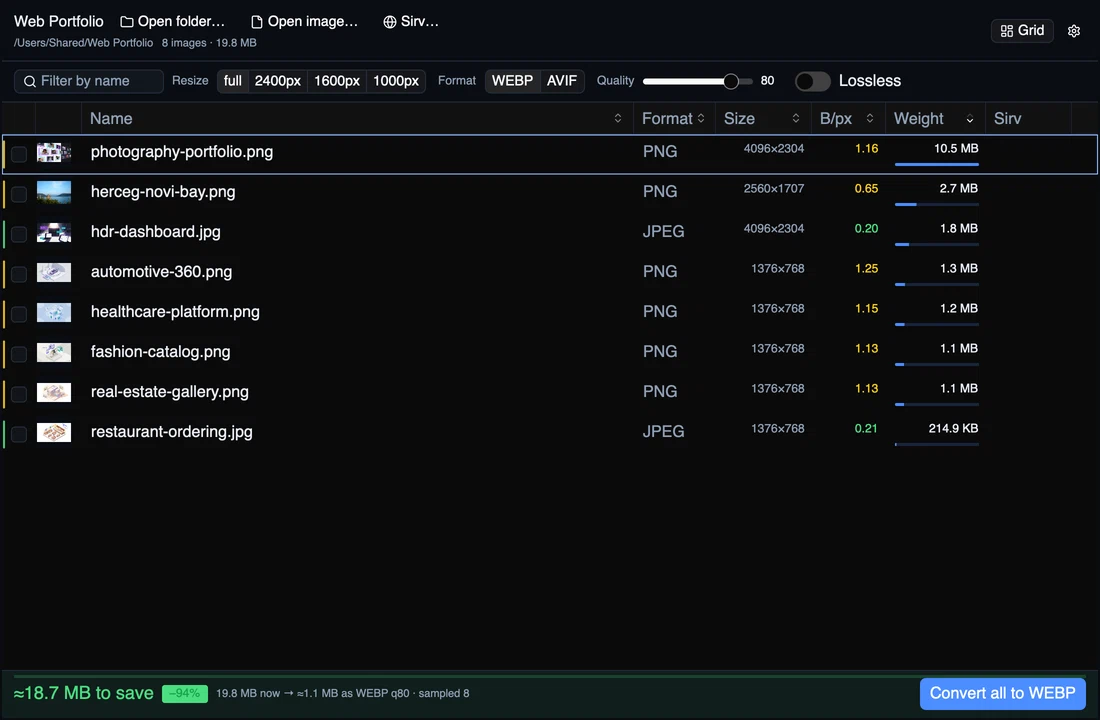
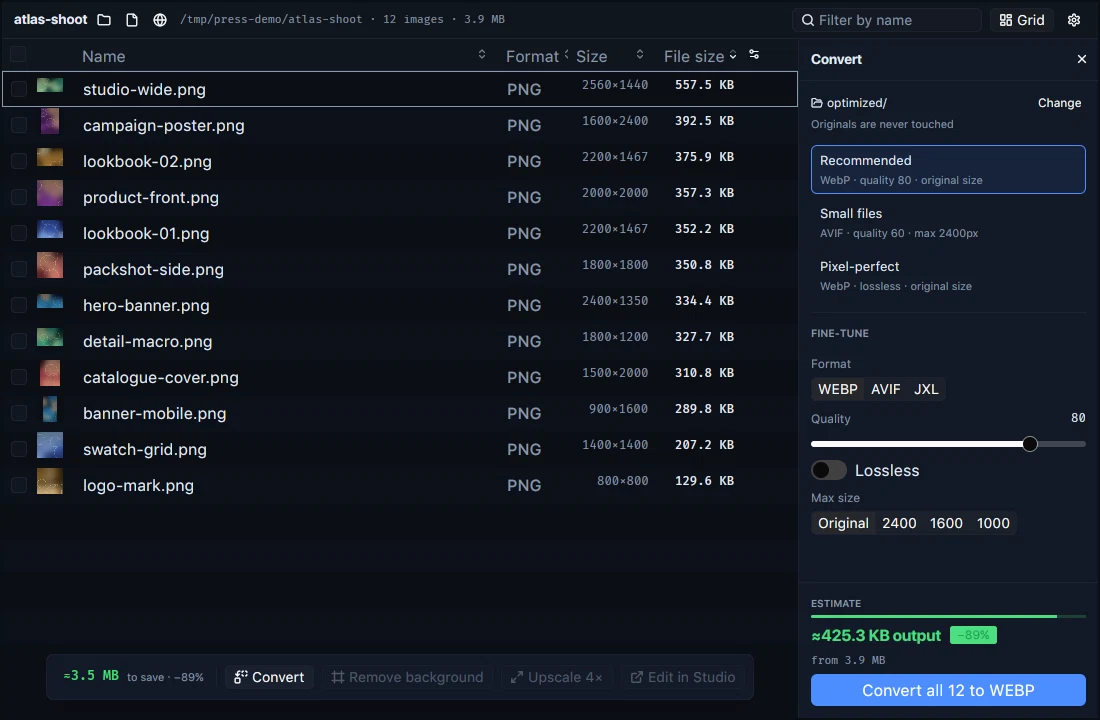
docs: new screenshots, and a heavy finding that means something
`heavy` was being claimed on 44-byte slivers: bytes per pixel is a
ratio, and a ratio on two pixels is arithmetic rather than a finding.
The word is a claim that converting would win something, so it now needs
a file worth converting behind it — over 32 KB and over 64x64 px — and
one function decides it for the count, the filter and the row alike.

The screenshots showed the old two-row chrome, the old inspector column
and a comparison header full of buttons. They are the current window
now, taken from the real app at the default size, and a third one shows
the results view that had nowhere to appear before. Press converted
them: 657.8 KB of PNG to 147.1 KB of WebP.

The README caught up with the window: the columns and their picker, B/px
starting off, the bar and its rails, the destination that can be
changed, and Keep or Discard on a model's result. Scenarios park the
pointer before their last frame, so captures stop carrying the tooltip
of whatever the harness last clicked.

Claude-Session: https://claude.ai/code/session_016NZduPZtBHuRrYY5pWs5zr

diff --git a/src/audit/mod.rs b/src/audit/mod.rs
@@ -62,6 +62,12 @@ use gpui_component::{ActiveTheme, Disableable, IconName, Selectable, Sizable};
 /// diagnostic something you had to read rather than see.
 const DENSITY_GOOD: f32 = 0.5;
 const DENSITY_HEAVY: f32 = 1.5;
+/// Below these, bytes per pixel stops meaning anything. A 44-byte 1×2 sliver
+/// carries an enormous ratio and has nothing to give back: the finding is a
+/// claim that converting would win something, so it needs a file big enough for
+/// that to be true.
+const HEAVY_MIN_BYTES: u64 = 32_768;
+const HEAVY_MIN_PIXELS: u64 = 64 * 64;
 /// Gallery rows stay uniform for virtualisation, but the tile itself grows to use the
 /// available surface instead of leaving a dead strip beside three tiny cards.
 const TILE_MIN: f32 = 168.;
@@ -837,10 +843,16 @@ enum Finding {
 }
 
 impl Finding {
-    fn holds(self, entry: &Entry) -> bool {
+    /// The one place either finding is decided, so the count in the toolbar,
+    /// the filter it applies, and the chip in the row can never disagree.
+    pub(super) fn holds(self, entry: &Entry) -> bool {
         match self {
             Finding::Mislabelled => entry.extension_lies(),
-            Finding::Heavy => entry.bytes_per_pixel() > DENSITY_HEAVY,
+            Finding::Heavy => {
+                entry.bytes >= HEAVY_MIN_BYTES
+                    && u64::from(entry.width) * u64::from(entry.height) >= HEAVY_MIN_PIXELS
+                    && entry.bytes_per_pixel() > DENSITY_HEAVY
+            }
         }
     }
 }

diff --git a/src/audit/tests.rs b/src/audit/tests.rs
@@ -1234,6 +1234,28 @@ fn gallery_exposes_sorting_and_a_separate_compare_action(cx: &mut TestAppContext
     });
 }
 
+/// Bytes per pixel is a ratio, and a ratio on a 44-byte sliver is arithmetic
+/// rather than a finding. The claim is that converting would win something.
+#[test]
+fn heavy_needs_a_file_worth_converting() {
+    // A 300 KB screenshot at 30 bytes per pixel: the finding it was built for.
+    let bloated = entry("screenshot.png", 100, 100, 300_000, ImageFormat::Png);
+    assert!(Finding::Heavy.holds(&bloated));
+
+    // The same ratio on something too small to give anything back.
+    let sliver = entry("sliver.png", 1, 2, 44, ImageFormat::Png);
+    assert!(sliver.bytes_per_pixel() > 1.5);
+    assert!(!Finding::Heavy.holds(&sliver));
+
+    // Big enough on disk, but a handful of pixels: still nothing to win.
+    let tiny = entry("icon.png", 8, 8, 100_000, ImageFormat::Png);
+    assert!(!Finding::Heavy.holds(&tiny));
+
+    // A photograph is never heavy however large the file is.
+    let photo = entry("photo.jpg", 4000, 3000, 2_000_000, ImageFormat::Jpeg);
+    assert!(!Finding::Heavy.holds(&photo));
+}
+
 /// The picker's toggle has to reach the table, not only the state: the delegate
 /// caches its column list against a signature, and a preference left out of that
 /// signature changes nothing on screen.

diff --git a/src/audit/gallery.rs b/src/audit/gallery.rs
@@ -72,8 +72,6 @@ impl Audit {
         let thumb = self.thumbs.get(&index).cloned();
         let ticked = self.selected.contains(&index);
 
-        let density = entry.bytes_per_pixel();
-
         div()
             .id(("tile", row))
             .w(px(tile_size))
@@ -247,7 +245,11 @@ impl Audit {
                     // The same word the list uses. A tile showing `0.14 B/px`
                     // asked you to know the bands by heart, and it was taking
                     // the room the file size needed to print in full.
-                    .children((density > DENSITY_HEAVY).then(|| finding_chip("heavy", cx)))
+                    .children(
+                        Finding::Heavy
+                            .holds(entry)
+                            .then(|| finding_chip("heavy", cx)),
+                    )
                     .children(
                         entry
                             .extension_lies()

diff --git a/src/audit/table.rs b/src/audit/table.rs
@@ -473,7 +473,7 @@ impl TableDelegate for AuditTable {
                 // The finding, in the row that has it. `heavy` used to be a number
                 // in a column you had to know how to read; a file can be both
                 // heavy and mislabelled, and both are worth saying.
-                let heavy = entry.bytes_per_pixel() > DENSITY_HEAVY;
+                let heavy = Finding::Heavy.holds(entry);
                 let lies = entry.extension_lies();
                 div()
                     .w_full()

diff --git a/README.md b/README.md
@@ -8,7 +8,7 @@ shoot. This does the same job on your computer: auditing, comparing, and convert
 do not upload files, and the folder size is bounded by the disk rather than by a
 browser tab. Files leave the machine only when you explicitly use Sirv sync.
 
-![Press auditing a mixed folder of PNG and JPEG images](docs/audit.webp)
+![Press auditing a folder of PNG exports, with the Convert rail open beside the list](docs/audit.webp)
 
 Press is the desktop companion to the site and the
 [Chrome extension](https://chromewebstore.google.com/detail/hinifcidioledficgenmdncpkifnngap).
@@ -55,18 +55,25 @@ found — heaviest first, because that is where the work is.
 
 | Column | Meaning |
 |---|---|
-| Thumb | Decoded off the main thread, only for rows the viewport asked for |
+| Thumbnail | Decoded off the main thread, only for rows the viewport asked for |
 | Format | The real format, read from the file's magic bytes, not its extension |
 | Size | Pixel dimensions |
-| B/px | Bytes on disk per output pixel |
-| Weight | Bytes on disk |
+| File size | Bytes on disk |
+| B/px | Bytes on disk per output pixel — off by default |
+
+Columns are chosen from the icon at the right end of the header, and the choice is
+remembered.
 
 **Format is read from the content.** That column disagreeing with the file extension
 is a finding, not a display bug. The first folder this was pointed at —
 `imageguide/public` — held 169 files named `.webp`, and 59 of them were PNG.
 
 `B/px` is the quick read on whether a file is carrying weight it does not need. A
-photographic JPEG sits near 0.2. A screenshot saved as PNG can be ten times that.
+photographic JPEG sits near 0.2. A screenshot saved as PNG can be ten times that. It
+is the sharpest number here and the least legible one, so it starts switched off and
+a file carrying too much says `heavy` in its own row instead. That word needs a file
+worth converting behind it: a 44-byte sliver has an enormous ratio and nothing to
+give back, so the finding ignores anything under 32 KB or 64x64 px.
 
 **Camera raw is counted, not listed.** `.nef`, `.cr2`, `.arw` and friends are TIFF
 containers, so a header read returns the embedded preview — a 6000x4000 NEF reports
@@ -101,8 +108,9 @@ The comparison has two local actions that never upload the source:
 **Remove background** uses BiRefNet Lite and **Upscale 4×** uses tiled Real-ESRGAN.
 Packaged macOS builds include the pinned vision.cpp runtime. Linux x64 downloads a
 checksum-verified copy on first use. Both download only the selected model (up to
-104 MB total for background removal or 49 MB for upscaling). Results are lossless
-PNGs under `optimized/`; an existing result is never replaced. Other builds can
+104 MB total for background removal or 49 MB for upscaling). A finished model run
+opens its result for you to **Keep** or **Discard**. Results are lossless PNGs in the
+output folder; an existing result is never replaced. Other builds can
 point `PRESS_VISION_CLI` at a local vision.cpp build.
 
 Sirv credentials stay in the platform config directory. The credentials
@@ -112,11 +120,23 @@ part of a normal audit, comparison, or conversion.
 
 ## Converting
 
-Pick a format and quality in the output panel and press **Convert**, or use `--convert`
-to do the same work without a window. Files are written to `optimized/` inside the
-folder, mirroring its subfolder layout. Sources are never touched, and that output
-folder is excluded from later scans so a second run does not offer to convert its own
-output.
+The bar along the foot of the window holds the verbs: **Convert**, the two local
+models, and the handoff to Sirv Studio. Choosing one opens a rail on the right with
+that operation's own settings and the button that commits it — for Convert, the
+presets, format, quality and size limit, with the projected saving above the button.
+`--convert` does the same work without a window.
+
+Files are written to `optimized/` inside the folder, mirroring its subfolder layout.
+**Change** in the rail picks a different destination — a staging folder, a share, a
+build tree — and the choice is remembered and follows you to the next folder. Sources
+are never touched either way, and the output folder is excluded from later scans so a
+second run does not offer to convert its own output.
+
+A finished run opens on what it produced: each output beside the file it came from,
+read off disk rather than encoded again for the preview, with a strip of every file
+the run wrote and what each one saved.
+
+![The results of a finished run, with every output in a strip along the foot](docs/results.webp)
 
 WebP encodes up to eight files at once and AVIF encodes two. JPEG XL encodes one file
 at a time because jixel uses the machine's cores inside each encode. Each in-flight
@@ -243,6 +263,10 @@ pan** — both sides move together, so they never fall out of register.
 At q40 on a 12 MB photo the sky goes from grainy to smooth and the file goes to
 262 KB. Whether that is a good trade is a judgement, which is why this shows you
 rather than tells you.
+
+The bar carries the same verbs as the audit, acting on the image in front of you:
+convert it, run either local model on it, or open it in Studio. Arrows step through
+the folder without leaving the view.
 
 ## Planned
 
